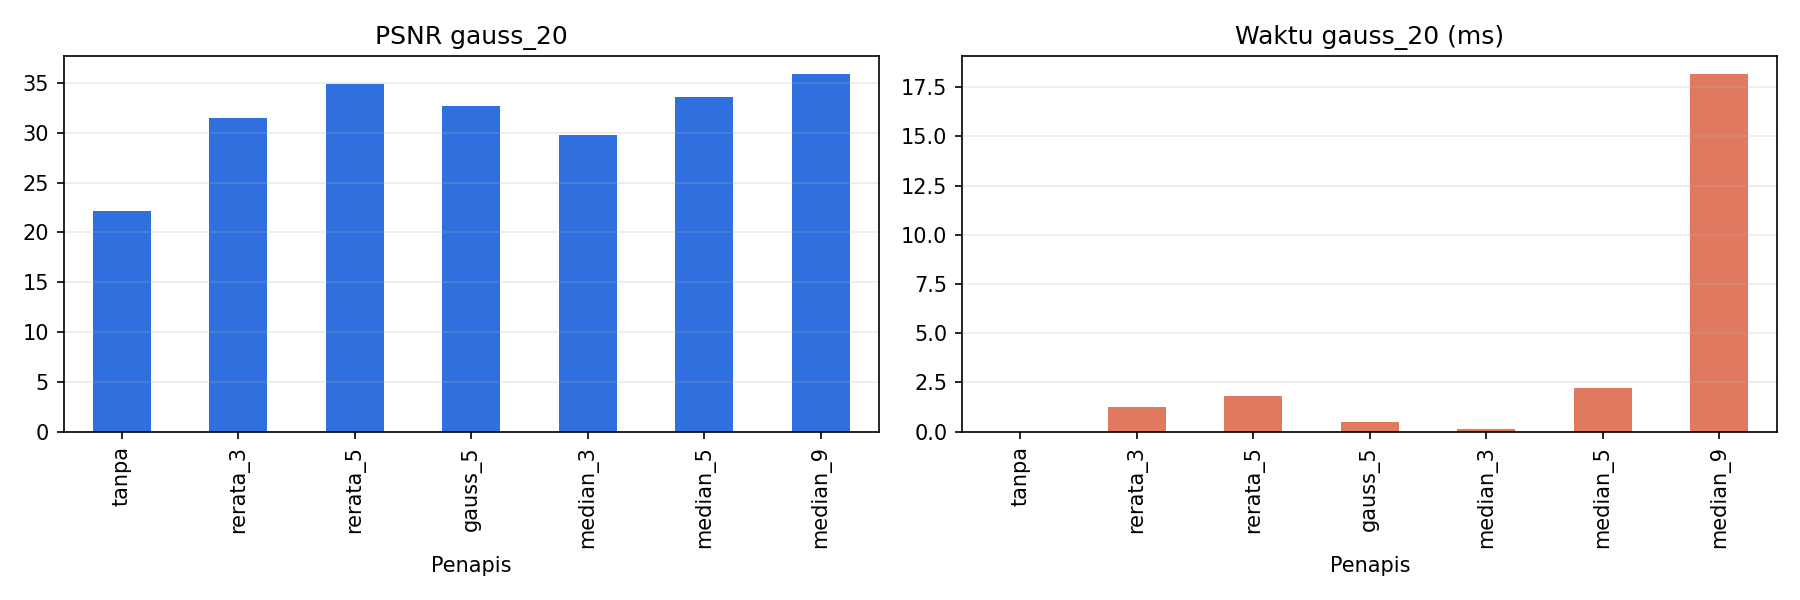
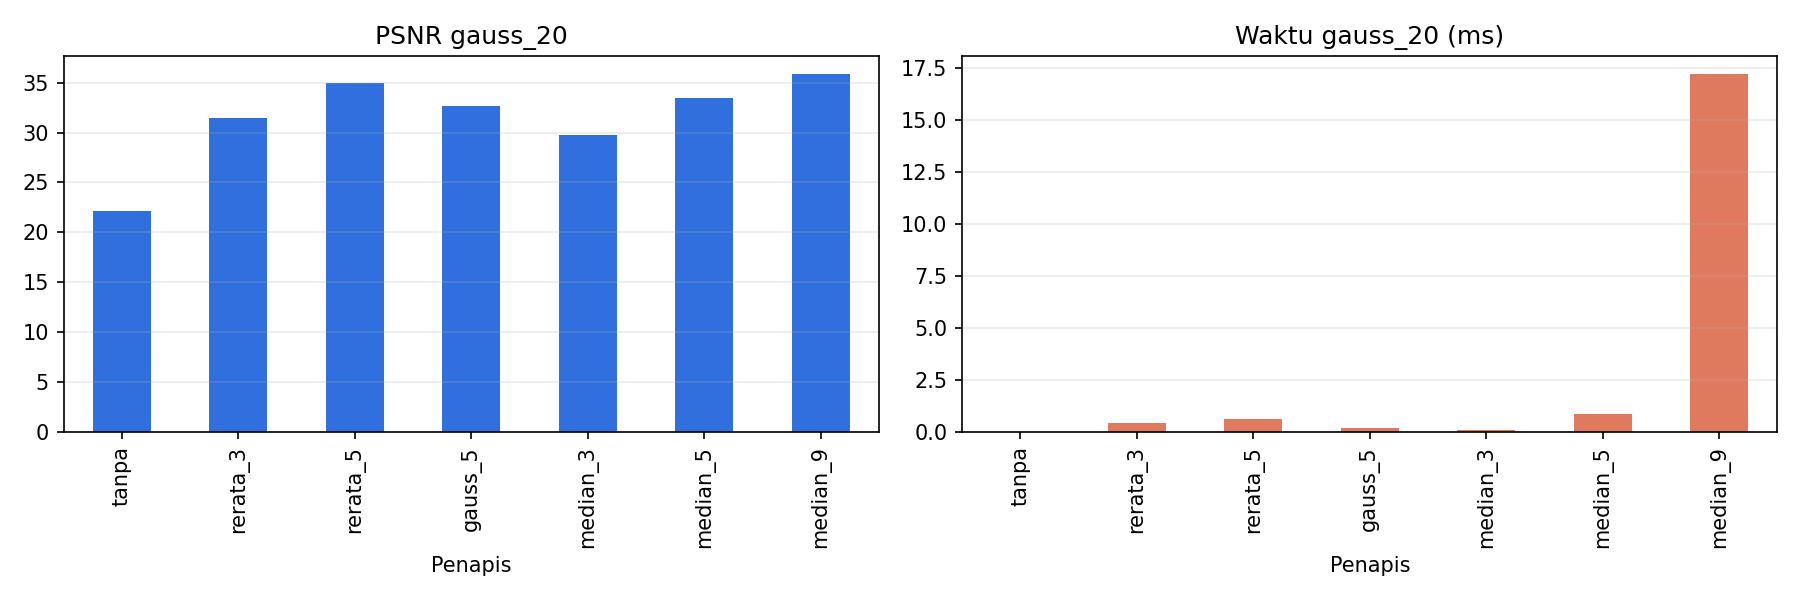
V2 = UTS

diff --git a/src/buat_dataset_sintetis.py b/src/buat_dataset_sintetis.py
@@ -1,7 +1,8 @@
 """
 buat_dataset_sintetis.py
 Membangkitkan dataset citra sintetis daun teh untuk studi kasus SIMUTEH.
-Setiap mahasiswa memakai SEED = 4 digit terakhir NIM sehingga datanya berbeda.
+Dataset proyek ini selalu dibangkitkan dengan SEED = 1063 agar hasilnya
+reproducible.
 
 Keluaran (folder data/sintetis/):
   citra/        citra berwarna hasil "pemotretan" (dengan gangguan cahaya dan derau)
@@ -18,7 +19,7 @@ import csv
 import cv2
 import numpy as np
 
-SEED = 1063          # GANTI dengan 4 digit terakhir NIM Anda
+SEED = 1063
 N_PER_KELAS = 20     # 20 citra x 3 kelas = 60 citra
 H, W = 480, 640
 KELAS = ["sehat", "ringan", "berat"]

diff --git a/src/cvlab.py b/src/cvlab.py
@@ -87,7 +87,7 @@ def _halus(rng, skala, h=TINGGI, w=LEBAR):
     return cv2.resize(kecil, (w, h), interpolation=cv2.INTER_CUBIC)
 
 
-def buat_daun(kondisi="normal", seed=0):
+def buat_daun(kondisi="normal", seed=1063):
     """Membangkitkan foto sintetis daun teh berbercak 640 x 480 (BGR, uint8).
 
     kondisi: normal, teduh, terik, kabut, bayangan, iso, rusak, goyang.

diff --git a/README.md b/README.md
@@ -20,7 +20,8 @@ Jalankan semua perintah berikut dari folder utama repo:
 python src/buat_dataset_sintetis.py
 ```
 
-Perintah tersebut menggunakan `SEED = 1063` dan menghasilkan 60 citra pada
+Seluruh sumber keacakan proyek menggunakan seed tetap `1063`. Perintah tersebut
+menghasilkan 60 citra pada
 `data/sintetis/`, lengkap dengan citra bersih, mask daun, mask bercak, dan
 `label.csv`.
 
